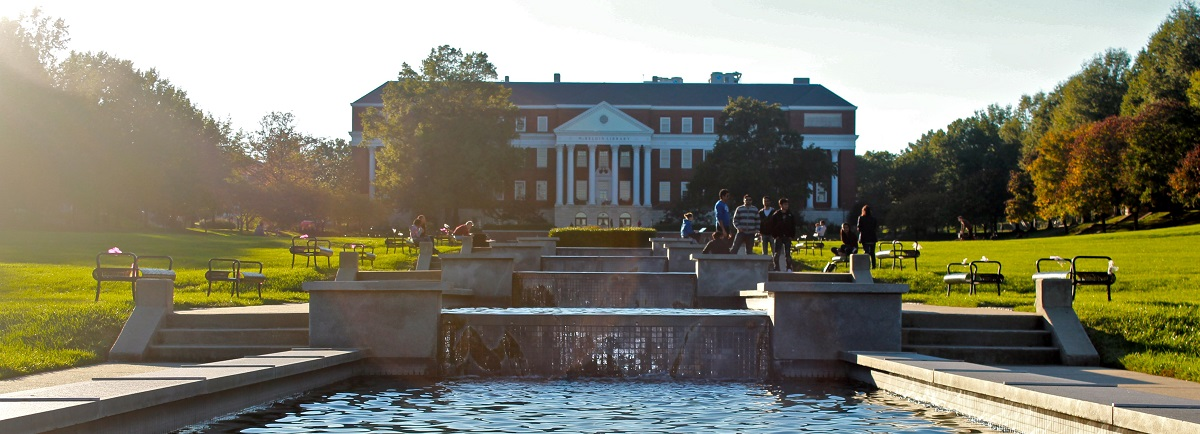
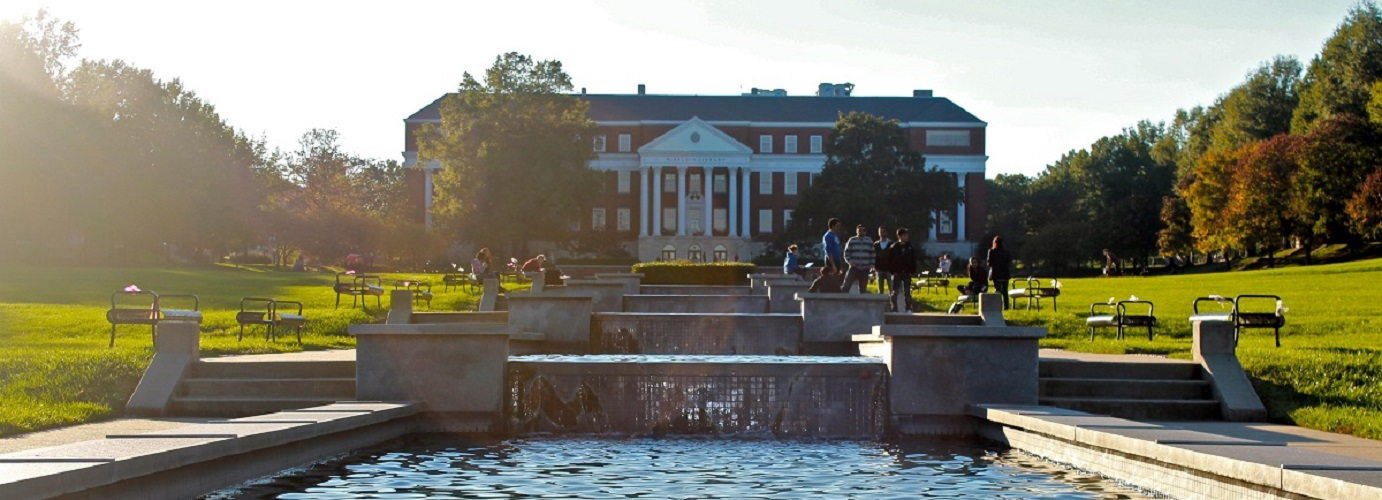
played with carousel

diff --git a/home.css b/home.css
@@ -17,7 +17,20 @@ p.grid-p{
   top: 250px;
 }
 .carousel-inner{
-  max-height: 400px;
+  position: absolute;
+  top: 0;
+  left: 0;
+  min-width: 100%;
+  height: 400px;
+  max-width: none;
+}
+img {
+  max-width: 100%;
+  width: auto   9;
+  height: auto;
+  vertical-align: middle;
+  border: 0;
+  -ms-interpolation-mode: bicubic;
 }
 .strong{
 
@@ -76,4 +89,5 @@ p.grid-p{
 #mission-context{
   height: 300px;
   overflow-y: scroll;
+  background-color: #EFF9F7;
 }

diff --git a/home.html b/home.html
@@ -42,7 +42,7 @@
     <div id="mission-modal" class="modal fade" role="dialog">
       <div class="modal-dialog">
         <div class="modal-content">
-          <div class="modal-header">
+          <div class="modal-header" id="mission-modal-header">
             <button type="button" class="close" data-dismiss="modal">&times;</button>
             <h3 class="modal-title">
               Our Mission
